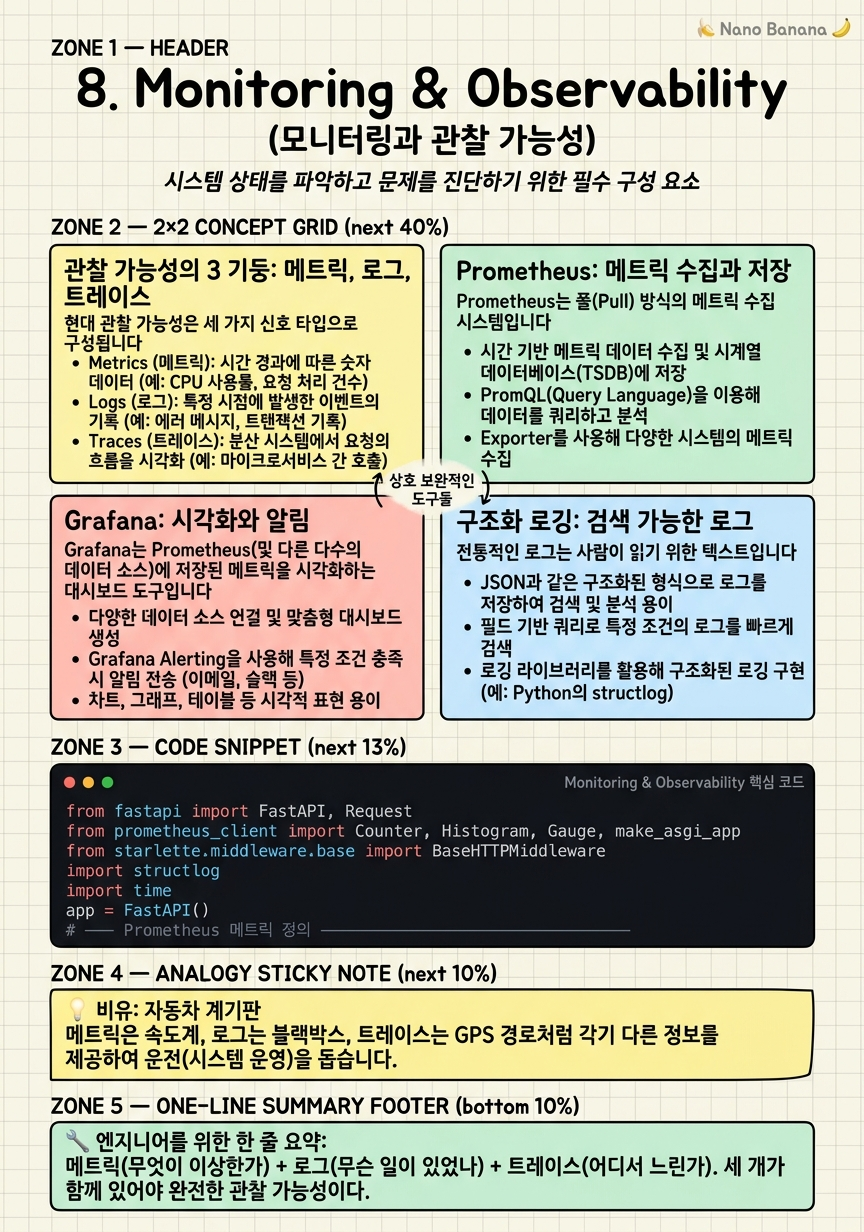
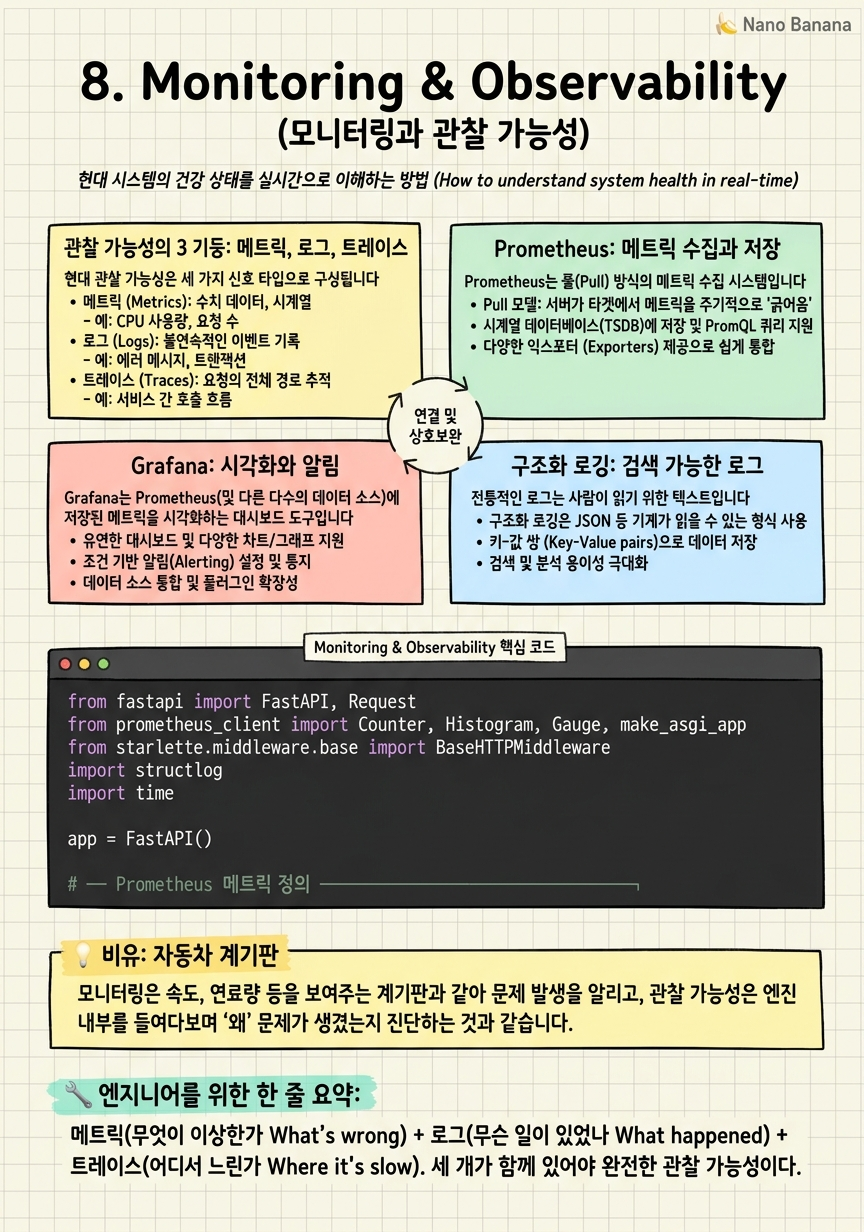
fix(course): backend-ops cheatsheet 재생성 및 이미지 참조 복구
- 챕터 HTML 10개가 존재하지 않는 .svg placeholder를 참조해 사이트에서
  cheatsheet 이미지가 전부 깨지던 문제 수정 → .png 참조로 재빌드
- cheatsheet 10장 nanobanana-pro로 재생성 (이전 이미지의 깨진 한글 부제 해소)
- ZONE 레이아웃 라벨이 이미지에 노출되던 아티팩트 제거 (프롬프트 수정 반영)

diff --git a/posts/backend-ops/chapter-07.html b/posts/backend-ops/chapter-07.html
@@ -263,7 +263,7 @@ button{font-family:inherit;cursor:pointer;border:0;background:none;color:inherit
       <div class="chapter-tldr">컨테이너를 수십~수천 개로 자동 관리하는 쿠버네티스의 핵심 개념(Pod, Deployment, Service)과 AI 서비스 배포 패턴을 익힌다.</div>
 
       <div class="cs-wrap">
-        <object data="cheatsheets/chapter-07.svg" type="image/svg+xml" style="max-width:min(560px,100%);margin:0 auto;border-radius:12px;"></object>
+        <img src="cheatsheets/chapter-07.png" alt="Chapter 7 Cheat Sheet" loading="lazy">
         <div class="cs-label">🍌 Nano Banana — Chapter 7 Visual Summary</div>
       </div>
 

diff --git a/posts/backend-ops/chapter-06.html b/posts/backend-ops/chapter-06.html
@@ -263,7 +263,7 @@ button{font-family:inherit;cursor:pointer;border:0;background:none;color:inherit
       <div class="chapter-tldr">&quot;내 컴퓨터에서는 되는데&quot; 문제를 Docker로 완전히 해결하고, AI 모델 서빙 컨테이너를 직접 빌드하고 최적화한다.</div>
 
       <div class="cs-wrap">
-        <object data="cheatsheets/chapter-06.svg" type="image/svg+xml" style="max-width:min(560px,100%);margin:0 auto;border-radius:12px;"></object>
+        <img src="cheatsheets/chapter-06.png" alt="Chapter 6 Cheat Sheet" loading="lazy">
         <div class="cs-label">🍌 Nano Banana — Chapter 6 Visual Summary</div>
       </div>
 

diff --git a/posts/backend-ops/chapter-08.html b/posts/backend-ops/chapter-08.html
@@ -263,7 +263,7 @@ button{font-family:inherit;cursor:pointer;border:0;background:none;color:inherit
       <div class="chapter-tldr">프로덕션 AI 서비스가 언제, 왜, 어떻게 실패하는지 Prometheus·Grafana·구조화 로깅으로 사전에 파악하고 빠르게 대응한다.</div>
 
       <div class="cs-wrap">
-        <object data="cheatsheets/chapter-08.svg" type="image/svg+xml" style="max-width:min(560px,100%);margin:0 auto;border-radius:12px;"></object>
+        <img src="cheatsheets/chapter-08.png" alt="Chapter 8 Cheat Sheet" loading="lazy">
         <div class="cs-label">🍌 Nano Banana — Chapter 8 Visual Summary</div>
       </div>
 

diff --git a/posts/backend-ops/chapter-10.html b/posts/backend-ops/chapter-10.html
@@ -263,7 +263,7 @@ button{font-family:inherit;cursor:pointer;border:0;background:none;color:inherit
       <div class="chapter-tldr">AI 엔지니어가 혼자서 모델 학습부터 프로덕션 서빙까지 전체 ML 파이프라인을 설계·운영하는 실전 패턴을 익힌다.</div>
 
       <div class="cs-wrap">
-        <object data="cheatsheets/chapter-10.svg" type="image/svg+xml" style="max-width:min(560px,100%);margin:0 auto;border-radius:12px;"></object>
+        <img src="cheatsheets/chapter-10.png" alt="Chapter 10 Cheat Sheet" loading="lazy">
         <div class="cs-label">🍌 Nano Banana — Chapter 10 Visual Summary</div>
       </div>
 

diff --git a/posts/backend-ops/chapter-02.html b/posts/backend-ops/chapter-02.html
@@ -263,7 +263,7 @@ button{font-family:inherit;cursor:pointer;border:0;background:none;color:inherit
       <div class="chapter-tldr">데이터를 테이블에 저장하고, SQL로 원하는 정보를 정확하게 꺼내오는 방법과 인덱스·트랜잭션의 원리를 이해한다.</div>
 
       <div class="cs-wrap">
-        <object data="cheatsheets/chapter-02.svg" type="image/svg+xml" style="max-width:min(560px,100%);margin:0 auto;border-radius:12px;"></object>
+        <img src="cheatsheets/chapter-02.png" alt="Chapter 2 Cheat Sheet" loading="lazy">
         <div class="cs-label">🍌 Nano Banana — Chapter 2 Visual Summary</div>
       </div>
 

diff --git a/posts/backend-ops/chapter-09.html b/posts/backend-ops/chapter-09.html
@@ -263,7 +263,7 @@ button{font-family:inherit;cursor:pointer;border:0;background:none;color:inherit
       <div class="chapter-tldr">코드 변경이 자동으로 테스트되고 배포되는 파이프라인을 GitHub Actions로 구축해 안전하고 빠른 배포를 실현한다.</div>
 
       <div class="cs-wrap">
-        <object data="cheatsheets/chapter-09.svg" type="image/svg+xml" style="max-width:min(560px,100%);margin:0 auto;border-radius:12px;"></object>
+        <img src="cheatsheets/chapter-09.png" alt="Chapter 9 Cheat Sheet" loading="lazy">
         <div class="cs-label">🍌 Nano Banana — Chapter 9 Visual Summary</div>
       </div>
 

diff --git a/posts/backend-ops/chapter-03.html b/posts/backend-ops/chapter-03.html
@@ -263,7 +263,7 @@ button{font-family:inherit;cursor:pointer;border:0;background:none;color:inherit
       <div class="chapter-tldr">Redis, MongoDB 등 NoSQL 데이터베이스가 언제 SQL보다 적합한지 이해하고, 캐싱과 세션 관리에 Redis를 실전 활용한다.</div>
 
       <div class="cs-wrap">
-        <object data="cheatsheets/chapter-03.svg" type="image/svg+xml" style="max-width:min(560px,100%);margin:0 auto;border-radius:12px;"></object>
+        <img src="cheatsheets/chapter-03.png" alt="Chapter 3 Cheat Sheet" loading="lazy">
         <div class="cs-label">🍌 Nano Banana — Chapter 3 Visual Summary</div>
       </div>
 

diff --git a/posts/backend-ops/chapter-04.html b/posts/backend-ops/chapter-04.html
@@ -263,7 +263,7 @@ button{font-family:inherit;cursor:pointer;border:0;background:none;color:inherit
       <div class="chapter-tldr">Pydantic으로 데이터 검증을 자동화하고, FastAPI로 프로덕션 수준의 REST API를 빠르게 구축하는 방법을 배운다.</div>
 
       <div class="cs-wrap">
-        <object data="cheatsheets/chapter-04.svg" type="image/svg+xml" style="max-width:min(560px,100%);margin:0 auto;border-radius:12px;"></object>
+        <img src="cheatsheets/chapter-04.png" alt="Chapter 4 Cheat Sheet" loading="lazy">
         <div class="cs-label">🍌 Nano Banana — Chapter 4 Visual Summary</div>
       </div>
 

diff --git a/posts/backend-ops/chapter-01.html b/posts/backend-ops/chapter-01.html
@@ -263,7 +263,7 @@ button{font-family:inherit;cursor:pointer;border:0;background:none;color:inherit
       <div class="chapter-tldr">인터넷에서 클라이언트와 서버가 어떻게 대화하는지, HTTP의 구조와 웹 서버의 역할을 완전히 이해한다.</div>
 
       <div class="cs-wrap">
-        <object data="cheatsheets/chapter-01.svg" type="image/svg+xml" style="max-width:min(560px,100%);margin:0 auto;border-radius:12px;"></object>
+        <img src="cheatsheets/chapter-01.png" alt="Chapter 1 Cheat Sheet" loading="lazy">
         <div class="cs-label">🍌 Nano Banana — Chapter 1 Visual Summary</div>
       </div>
 

diff --git a/posts/backend-ops/chapter-05.html b/posts/backend-ops/chapter-05.html
@@ -263,7 +263,7 @@ button{font-family:inherit;cursor:pointer;border:0;background:none;color:inherit
       <div class="chapter-tldr">JWT 토큰과 OAuth 2.0을 사용해 안전한 API 인증을 구현하고, OWASP 10대 취약점으로부터 서비스를 보호한다.</div>
 
       <div class="cs-wrap">
-        <object data="cheatsheets/chapter-05.svg" type="image/svg+xml" style="max-width:min(560px,100%);margin:0 auto;border-radius:12px;"></object>
+        <img src="cheatsheets/chapter-05.png" alt="Chapter 5 Cheat Sheet" loading="lazy">
         <div class="cs-label">🍌 Nano Banana — Chapter 5 Visual Summary</div>
       </div>
 
